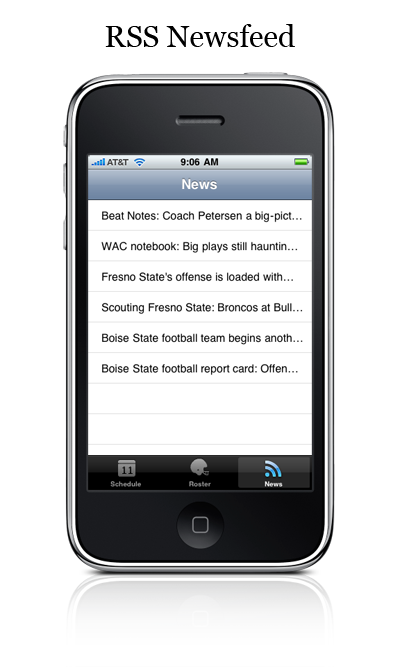
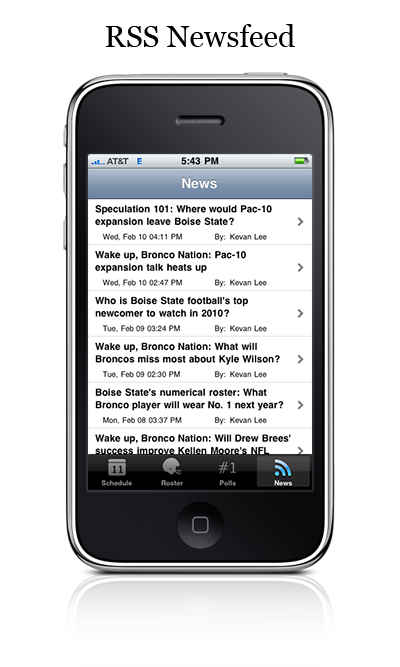
making it about the iPhone app.

diff --git a/config/routes.rb b/config/routes.rb
@@ -13,7 +13,7 @@ ActionController::Routing::Routes.draw do |map|
 
   # You can have the root of your site routed by hooking up '' 
   # -- just remember to delete public/index.html.
-  map.connect '', :controller => "info"
+  map.connect '', :controller => "info", :action => "iphone"
 
   # Allow downloading Web Service WSDL as a file with an extension
   # instead of a file named 'wsdl'
